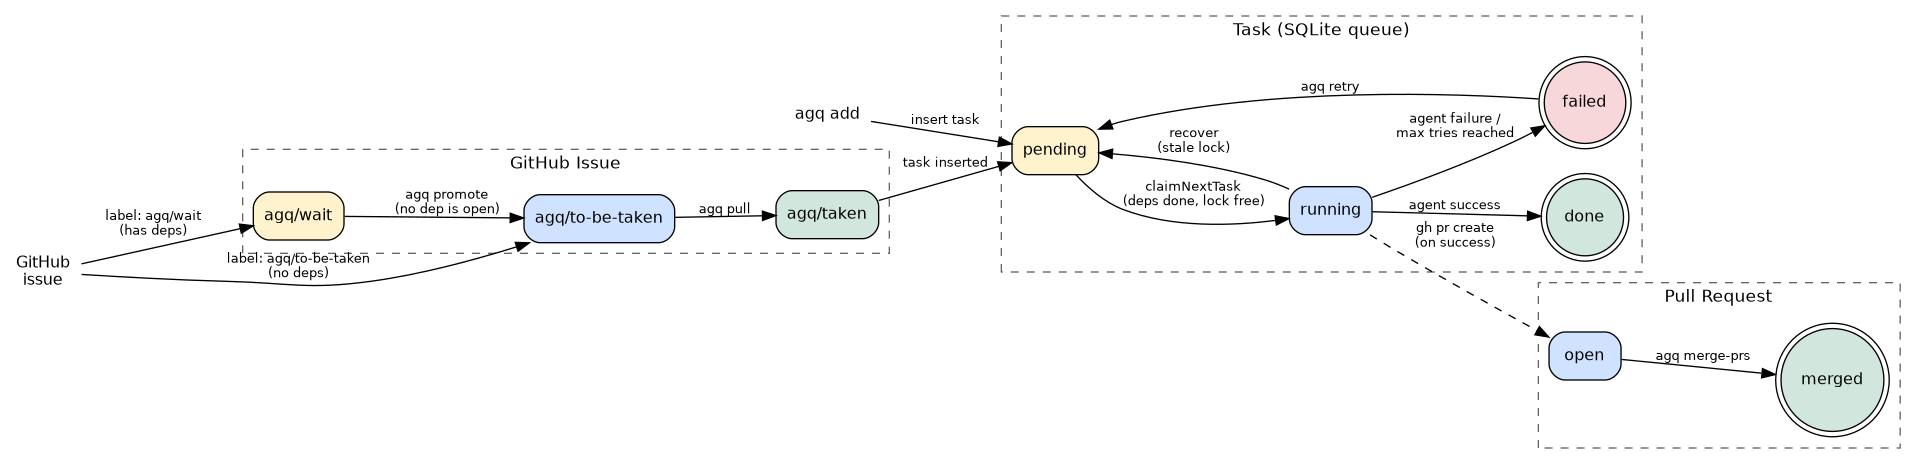
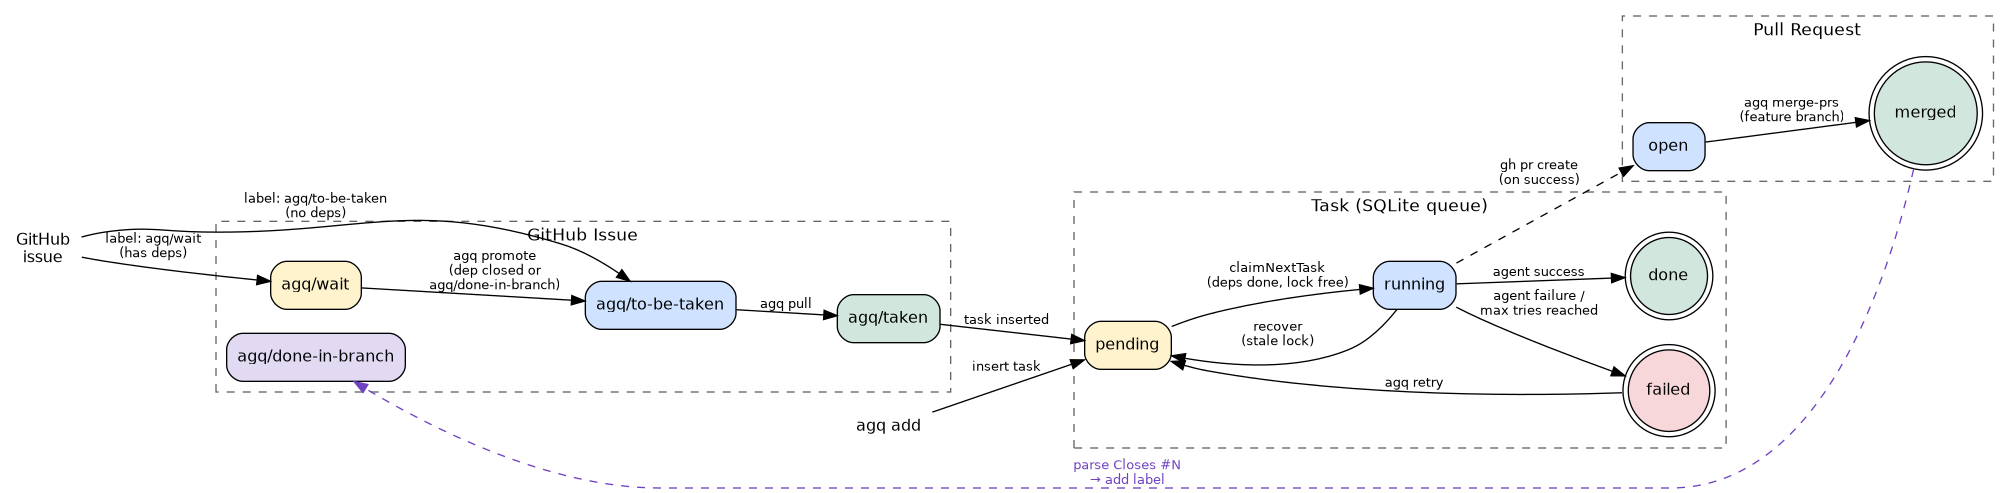
fix for agq branches

diff --git a/agq/README.md b/agq/README.md
@@ -46,10 +46,11 @@ cabal install agq   # puts agq on PATH via ~/.cabal/bin
     "default": "git-agent-task.sh"
   },
   "labels": {
-    "labelToBeTaken": "agq/to-be-taken",
-    "labelTaken":     "agq/taken",
-    "labelWait":      "agq/wait",
-    "labelAgentPr":   "agq/agent-pr"
+    "labelToBeTaken":    "agq/to-be-taken",
+    "labelTaken":        "agq/taken",
+    "labelWait":         "agq/wait",
+    "labelAgentPr":      "agq/agent-pr",
+    "labelDoneInBranch": "agq/done-in-branch"
   }
 }
 ```
@@ -71,6 +72,7 @@ cabal install agq   # puts agq on PATH via ~/.cabal/bin
 | `labels.labelTaken` | GitHub label applied after an issue is imported |
 | `labels.labelWait` | GitHub label meaning "blocked on dependencies" |
 | `labels.labelAgentPr` | GitHub label applied to PRs created by the agent |
+| `labels.labelDoneInBranch` | GitHub label added to issues closed by a PR merged into a feature branch (see [Feature-branch DAG](#feature-branch-dag)) |
 
 ---
 
@@ -93,9 +95,10 @@ agq init
 
 ### `agq init-labels`
 
-Creates (or updates) all GitHub labels defined in the config: the four workflow
-labels (`agq/to-be-taken`, `agq/taken`, `agq/wait`, `agq/agent-pr`) and one
-label per project key. Uses `gh label create --force` so it is idempotent.
+Creates (or updates) all GitHub labels defined in the config: the five workflow
+labels (`agq/to-be-taken`, `agq/taken`, `agq/wait`, `agq/agent-pr`,
+`agq/done-in-branch`) and one label per project key. Uses
+`gh label create --force` so it is idempotent.
 
 ```bash
 agq init-labels
@@ -154,9 +157,14 @@ Tries: 2
 ### `agq promote`
 
 Checks all issues labelled `agq/wait`. For each one, resolves the `Depends-on:`
-refs (via `gh issue view` / `gh pr view`). If no dep is explicitly open,
-the issue is promoted to `agq/to-be-taken` so the next `pull` will import it.
-Deps in unknown state (deleted, transferred, not found) are treated as satisfied.
+refs (via `gh issue view` / `gh pr view`). A dependency is considered satisfied
+when it is:
+- **closed** on GitHub, or
+- **not found** (deleted, transferred) — treated as done, or
+- labelled **`agq/done-in-branch`** — closed by a PR merged into a feature branch.
+
+If all deps are satisfied, the issue is promoted to `agq/to-be-taken` so the
+next `pull` will import it.
 
 ```bash
 agq promote
@@ -242,6 +250,14 @@ Merges all open PRs labelled `agq/agent-pr` whose base branch is **not** the
 repo's default branch (i.e. intermediate feature-branch PRs). Uses
 `gh pr merge --merge --auto`.
 
+After triggering the merge, `agq` parses `Closes / Fixes / Resolves #N` lines
+from the PR body and adds the `agq/done-in-branch` label to every referenced
+issue. This signals to `agq promote` that those issues are satisfied even though
+GitHub will not auto-close them (the PR targets a feature branch, not `main`).
+
+PRs that already target the default branch are skipped — GitHub handles closure
+for those automatically.
+
 ```bash
 agq merge-prs
 ```
@@ -272,6 +288,23 @@ resets those tasks to `pending`. Useful after a crash or `kill`.
 ```bash
 agq recover
 ```
+
+---
+
+## Feature-branch DAG
+
+When a chain of issues (A → B → C) all target the same feature branch (not
+`main`), GitHub will not auto-close issue A when the PR for A merges into that
+branch. The standard `agq` loop handles this transparently:
+
+1. `agq merge-prs` auto-merges the PR for A into the feature branch and parses
+   its `Closes #A` line → adds `agq/done-in-branch` to issue A.
+2. `agq promote` sees issue A is labelled `agq/done-in-branch` → promotes issue
+   B from `agq/wait` to `agq/to-be-taken`.
+3. `agq pull` imports issue B and the agent works on it.
+
+The label is intentionally left on issue A; it has no effect once B and C have
+progressed, and it provides a clear audit trail.
 
 ---
 

diff --git a/README.md b/README.md
@@ -315,6 +315,42 @@ Coding style guidelines:
 - No monad-tower, run in IO (library users can add their own)
 - Use contravariant tracer to surface logs, be generous with traces
 
+# agq — Automating GitHub Issue Queues
+
+`agq` is a companion tool (see [`agq/README.md`](agq/README.md)) that turns
+GitHub issues into an agent-driven task queue with DAG dependency enforcement.
+
+## Typical Automation Loop
+
+A cron job or CI step running every few minutes is enough to drive the full
+cycle:
+
+```console
+# 1. Promote blocked issues whose dependencies are now satisfied
+agq promote
+
+# 2. Import ready issues into the local task queue
+agq pull
+
+# 3. Run pending tasks (each spins up agents-exe in a git worktree)
+agq process
+
+# 4. Merge agent PRs that target feature branches;
+#    labels closed issues with agq/done-in-branch so promote() unblocks dependents
+agq merge-prs
+```
+
+Steps 1–4 are intentionally idempotent — re-running them is always safe.
+
+## Feature-branch Chains
+
+When issues A → B → C are all destined for a shared feature branch, GitHub
+will not auto-close A when the PR for A merges into that branch (only merges
+into the default branch trigger auto-close). `agq merge-prs` bridges this gap:
+after merging a feature-branch PR it parses its `Closes #N` lines and labels
+those issues `agq/done-in-branch`. `agq promote` treats that label as
+equivalent to a closed issue, so B is unblocked automatically.
+
 # Build and Run
 
 ## Directly from Source
